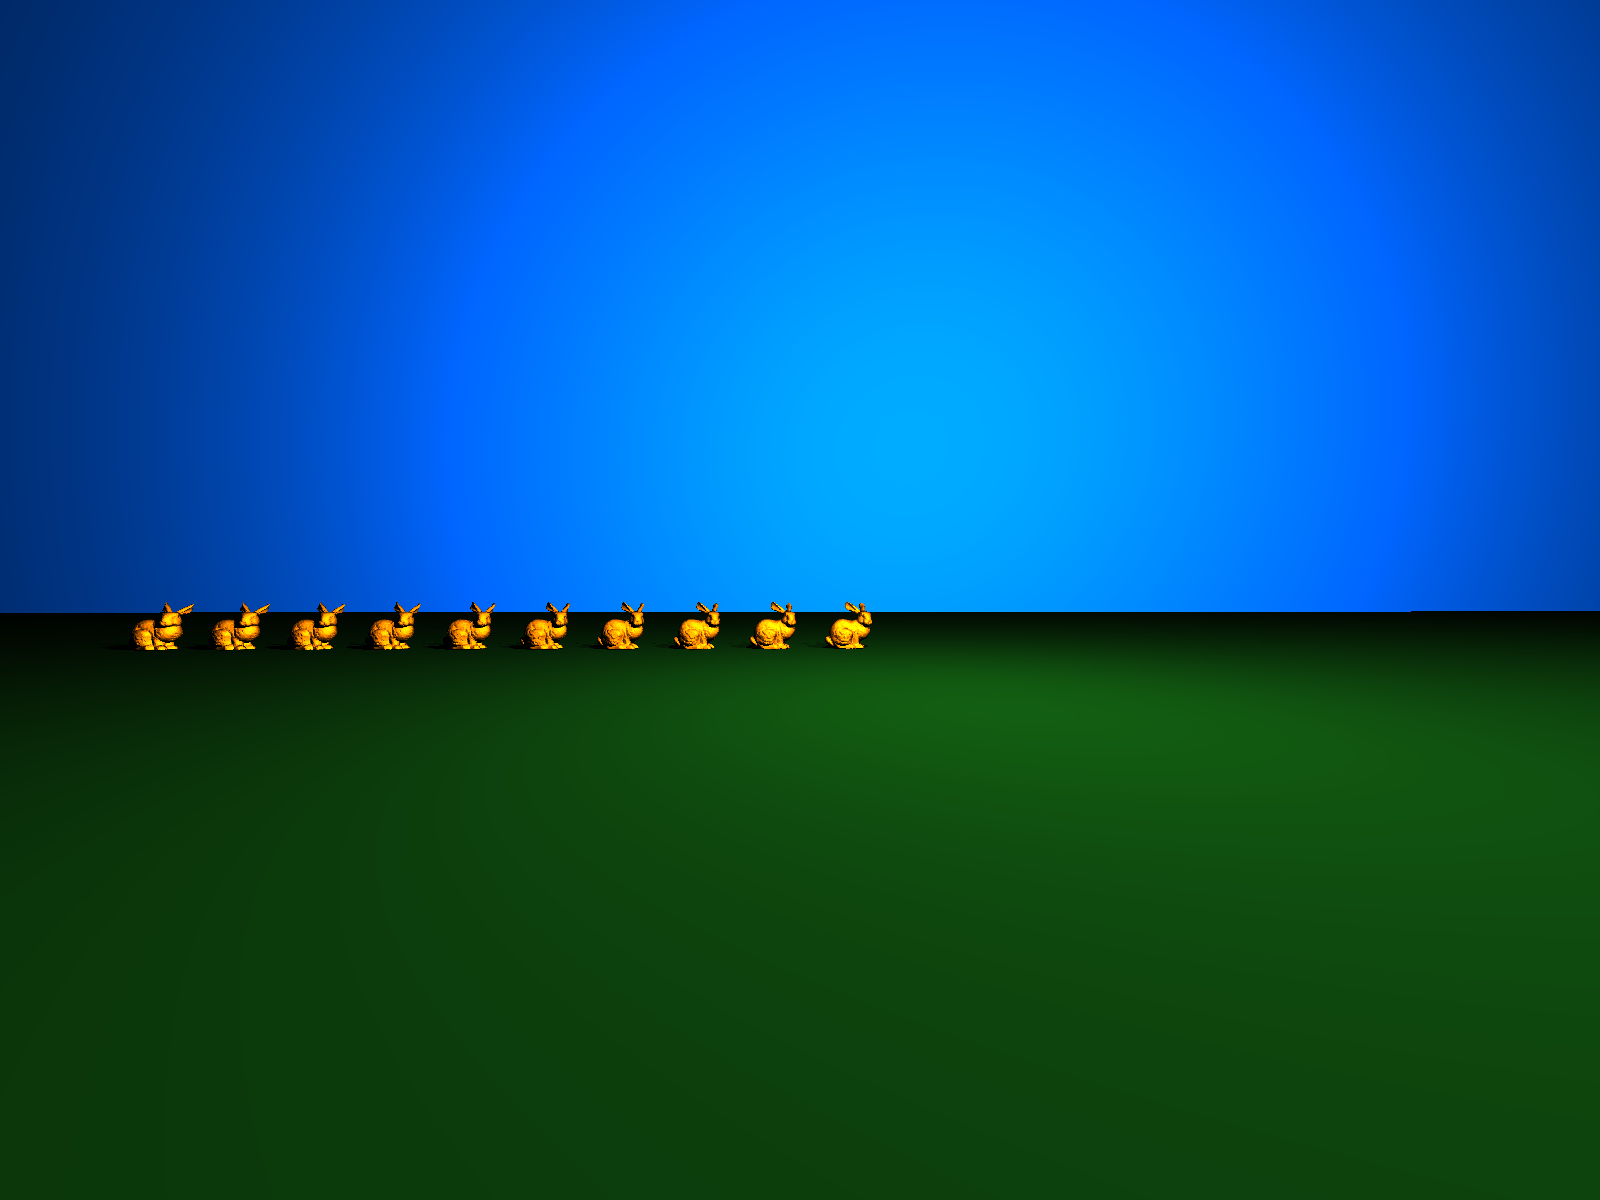
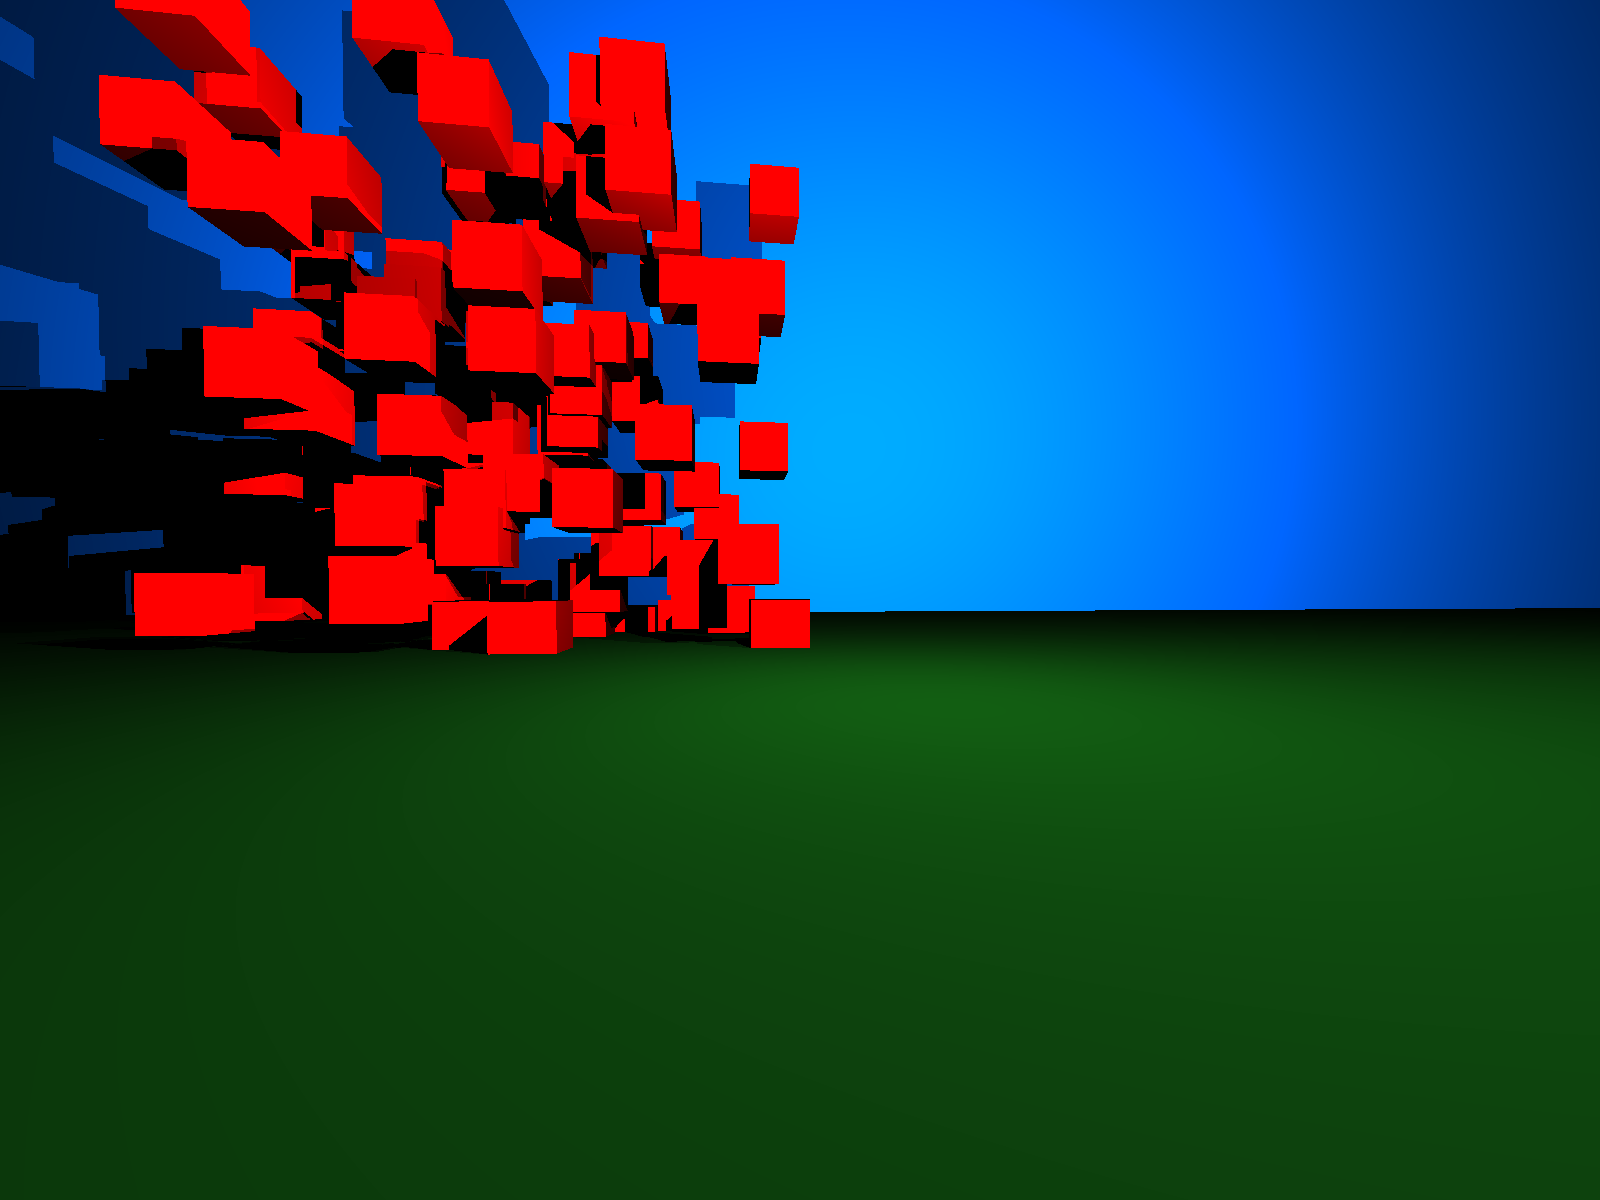
Fix img index bug and fix cubes

diff --git a/src/main.go b/src/main.go
@@ -3,6 +3,7 @@ package main
 import (
 	"fmt"
 	"math"
+	"math/rand"
 	m "model"
 	"render"
 )
@@ -39,13 +40,25 @@ func main() {
 	scene.Add(m.NewPlane(m.Vector{0, 0, 0}, ez, ex, m.NewColor(40, 200, 40)))
 	scene.Add(m.NewPlane(m.Vector{-1, 0, -5}, ex, ey, m.NewColor(0, 40, 100)))
 
-	object, err := render.LoadObj("bunny.obj", m.NewColor(160, 80, 0))
-	if err != nil {
-		fmt.Printf("Error reading file: %s \n", err.Error())
+	c := m.Cuboid{
+		m.Vector{-0.1, 0.1, -0.1},
+		m.Vector{0.1, 0.1, -0.1},
+		m.Vector{0.1, 0.1, 0.1},
+		m.Vector{-0.1, 0.1, 0.1},
+		m.Vector{-0.1, -0.1, -0.1},
+		m.Vector{0.1, -0.1, -0.1},
+		m.Vector{0.1, -0.1, 0.1},
+		m.Vector{-0.1, -0.1, 0.1},
+		m.NewColor(255, 0, 0),
 	}
-	objHeight := -object.Bound().Pmin.Y
-	for i := 0; i < 10; i++ {
-		shared := m.NewSharedObject(&object, m.Translate(m.Vector{float64(i) / 4, objHeight, -2}))
+
+	object := m.NewComplexObject(c.Tesselate())
+	//objHeight := -object.Bound().Pmin.Y
+	for i := 0; i < 100; i++ {
+		x := rand.Float64() * 2
+		y := rand.Float64() * 2
+		z := -rand.Float64() - 2
+		shared := m.NewSharedObject(&object, m.Translate(m.Vector{x, y, z}))
 		scene.Add(shared)
 	}
 
@@ -54,8 +67,8 @@ func main() {
 
 	fmt.Println("Rendering...")
 
-	// aw := render.NewAVI("out.avi", width, height)
-	from, to := m.Vector{0.2, 0.2, 0}, m.Vector{0, 0, -10}
+	//aw := render.NewAVI("out.avi", width, height)
+	from, to := m.Vector{0.2, 0.2, 0}, m.Vector{-1, 0, -10}
 	camera.LookAt(from, to, ey)
 	film := render.Render(scene, numWorkers)
 	film.SaveAsPNG("out.png")

diff --git a/src/render/image.go b/src/render/image.go
@@ -29,8 +29,13 @@ func newFilm(w, h int) Film {
 	}
 }
 
+// row major order
+func (f Film) getArrayIndex(x, y int) int {
+	return y*f.width + x
+}
+
 func (f Film) Set(x, y int, c model.Color) {
-	f.pixels[y*f.height+x] = c
+	f.pixels[f.getArrayIndex(x, y)] = c
 }
 
 func (f Film) SaveAsPNG(filename string) {
@@ -57,7 +62,7 @@ func (f Film) toImage() image.Image {
 	img := image.NewRGBA(image.Rect(0, 0, f.width, f.height))
 	for x := 0; x < f.width; x++ {
 		for y := 0; y < f.height; y++ {
-			pc := f.pixels[y*f.height+x]
+			pc := f.pixels[f.getArrayIndex(x, y)]
 			c := color.RGBA{pc.R(), pc.G(), pc.B(), 255}
 			img.Set(x, y, c)
 		}
@@ -108,7 +113,7 @@ func (g gifImages) Add(f Film) gifImages {
 	m := image.NewPaletted(image.Rect(0, 0, f.width, f.height), palette.Plan9)
 	for x := 0; x < f.width; x++ {
 		for y := 0; y < f.height; y++ {
-			pc := f.pixels[y*f.height+x]
+			pc := f.pixels[f.getArrayIndex(x, y)]
 			c := color.RGBA{pc.R(), pc.G(), pc.B(), 255}
 			m.Set(x, y, c)
 		}

diff --git a/src/model/cube.go b/src/model/cube.go
@@ -131,7 +131,7 @@ type Quadrilateral struct {
 
 func (r Quadrilateral) Tesselate() []Object {
 	return []Object{
-		NewTriangle(r.P1, r.P4, r.P2, r.Color),
-		NewTriangle(r.P4, r.P3, r.P2, r.Color),
+		NewTriangle(r.P1, r.P2, r.P4, r.Color),
+		NewTriangle(r.P4, r.P2, r.P3, r.Color),
 	}
 }

diff --git a/src/model/object.go b/src/model/object.go
@@ -49,7 +49,7 @@ type ComplexObject struct {
 	bound AABB
 }
 
-func NewComplexObject(objects []Object) ComplexObject {
+func NewComplexObject(objects []Object) Object {
 	if len(objects) == 0 {
 		panic("invalid object, cant be empty")
 	}
